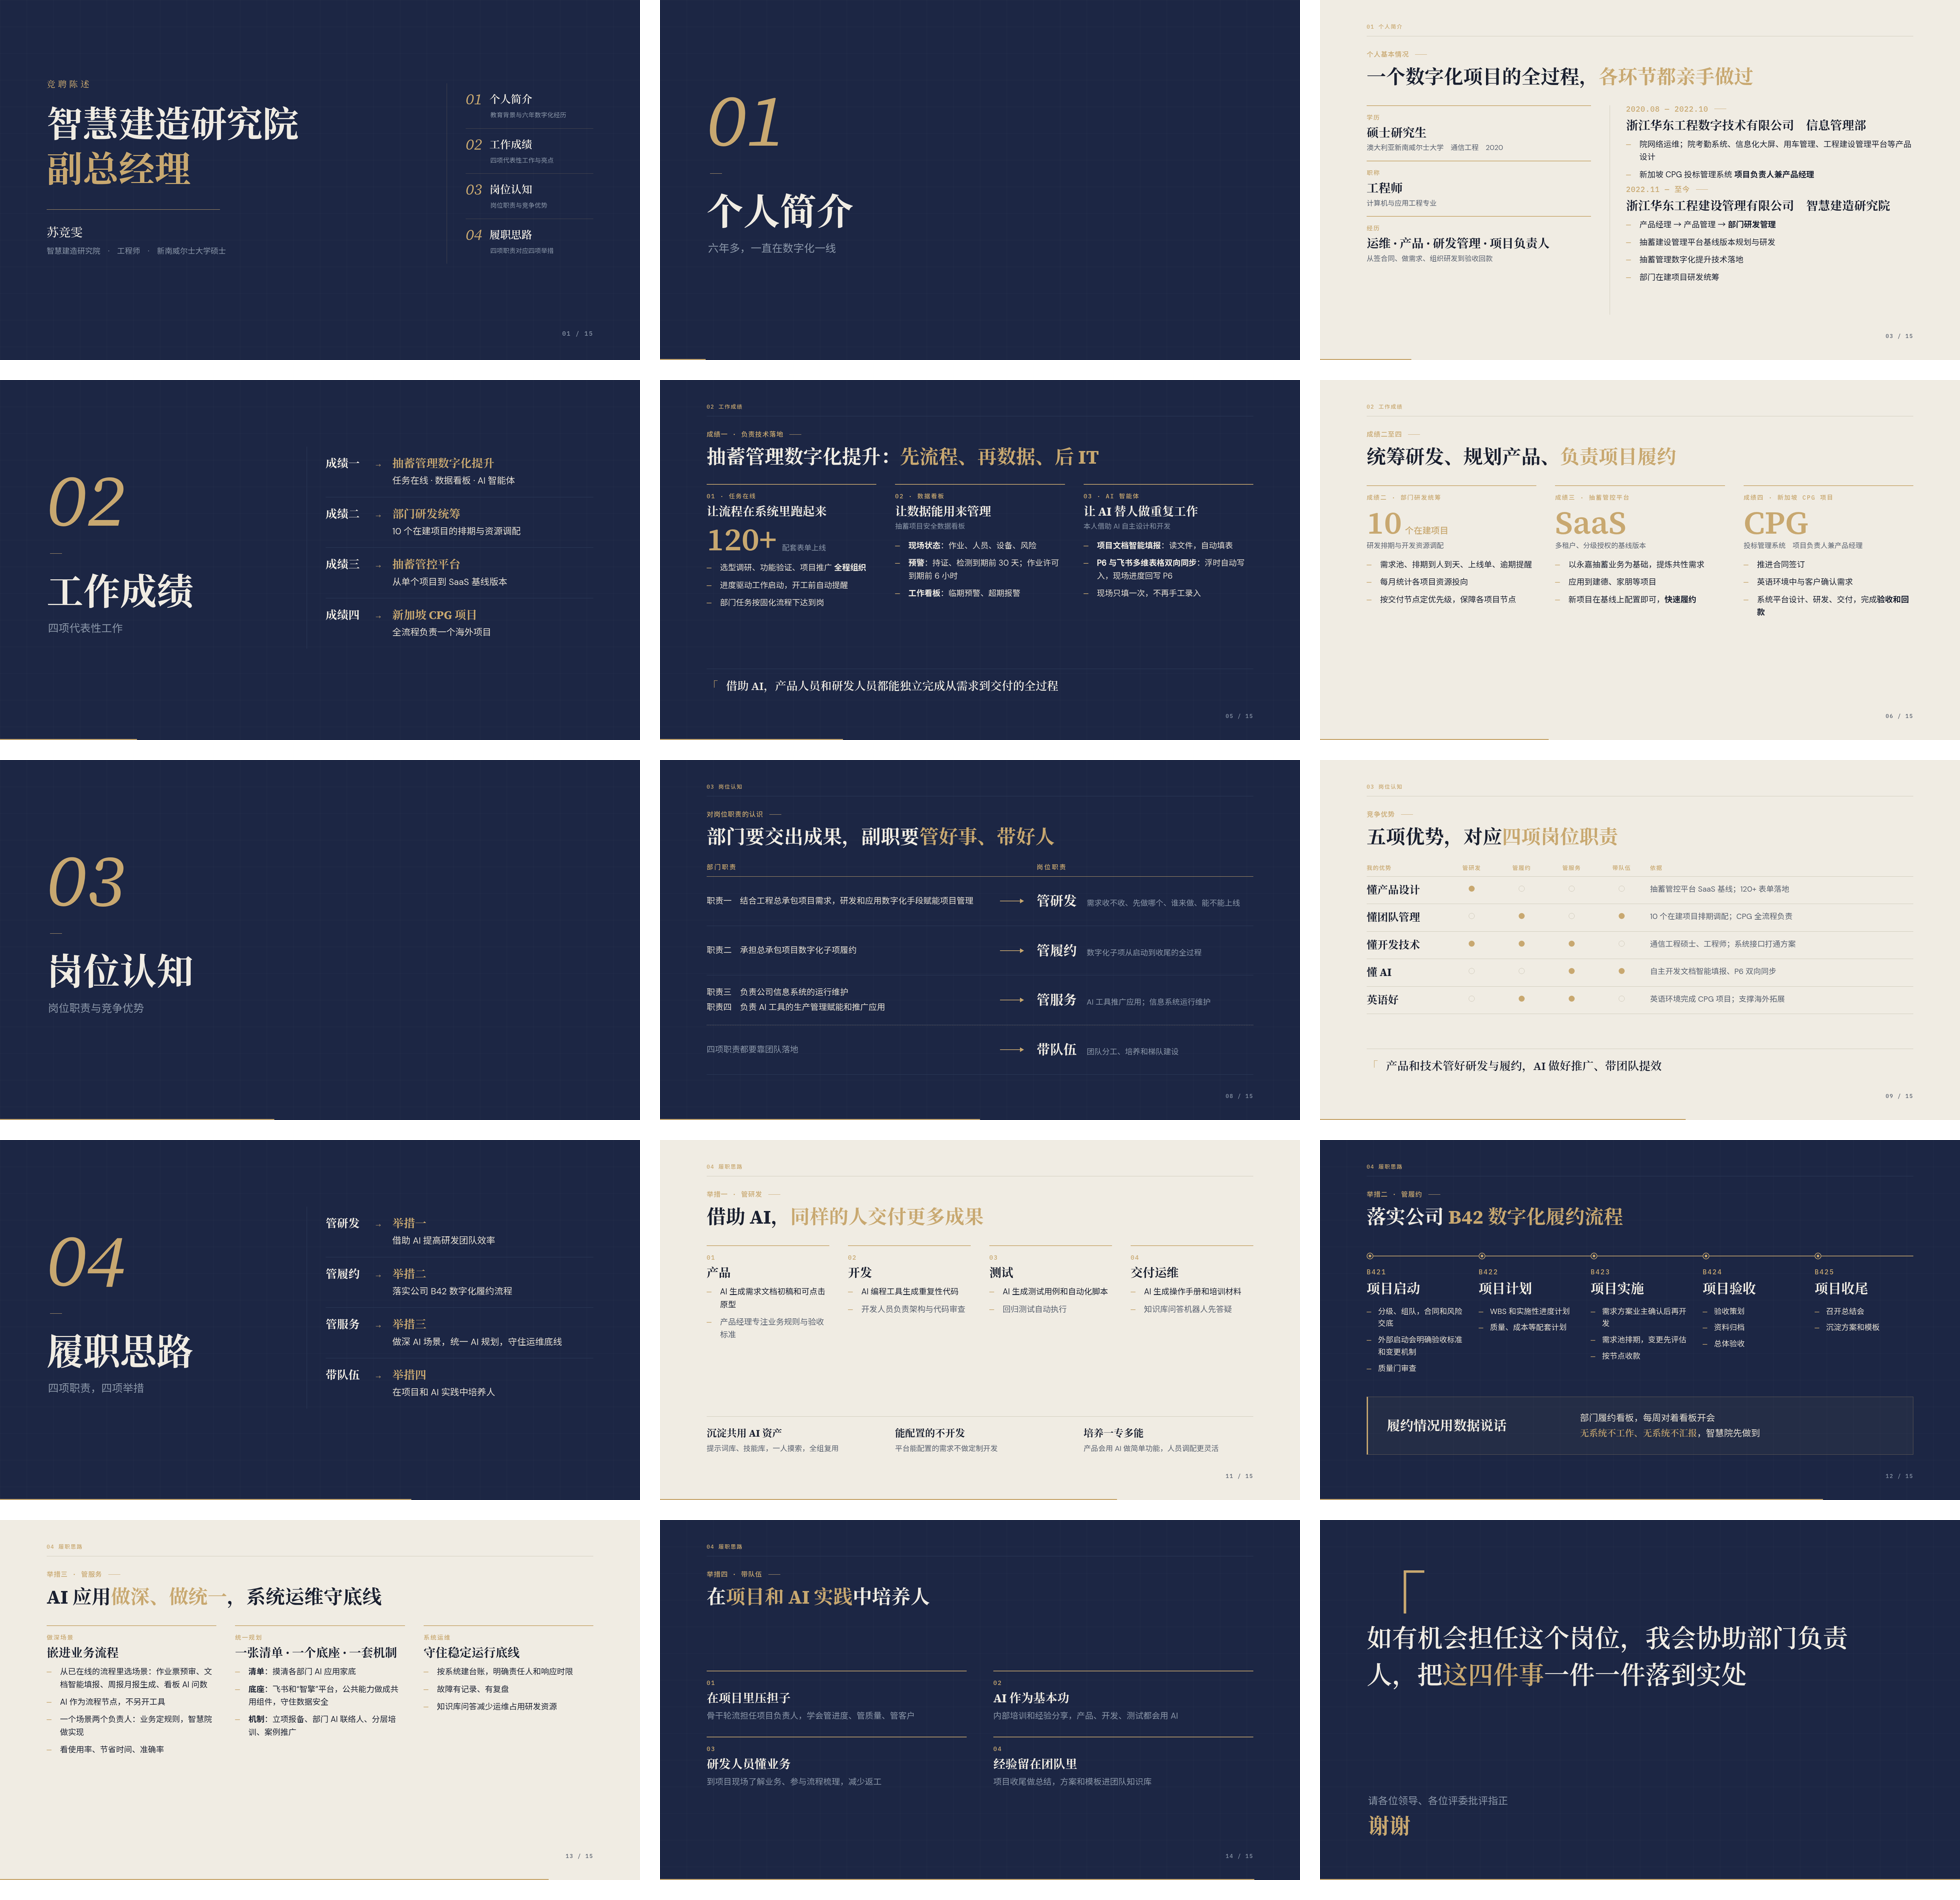
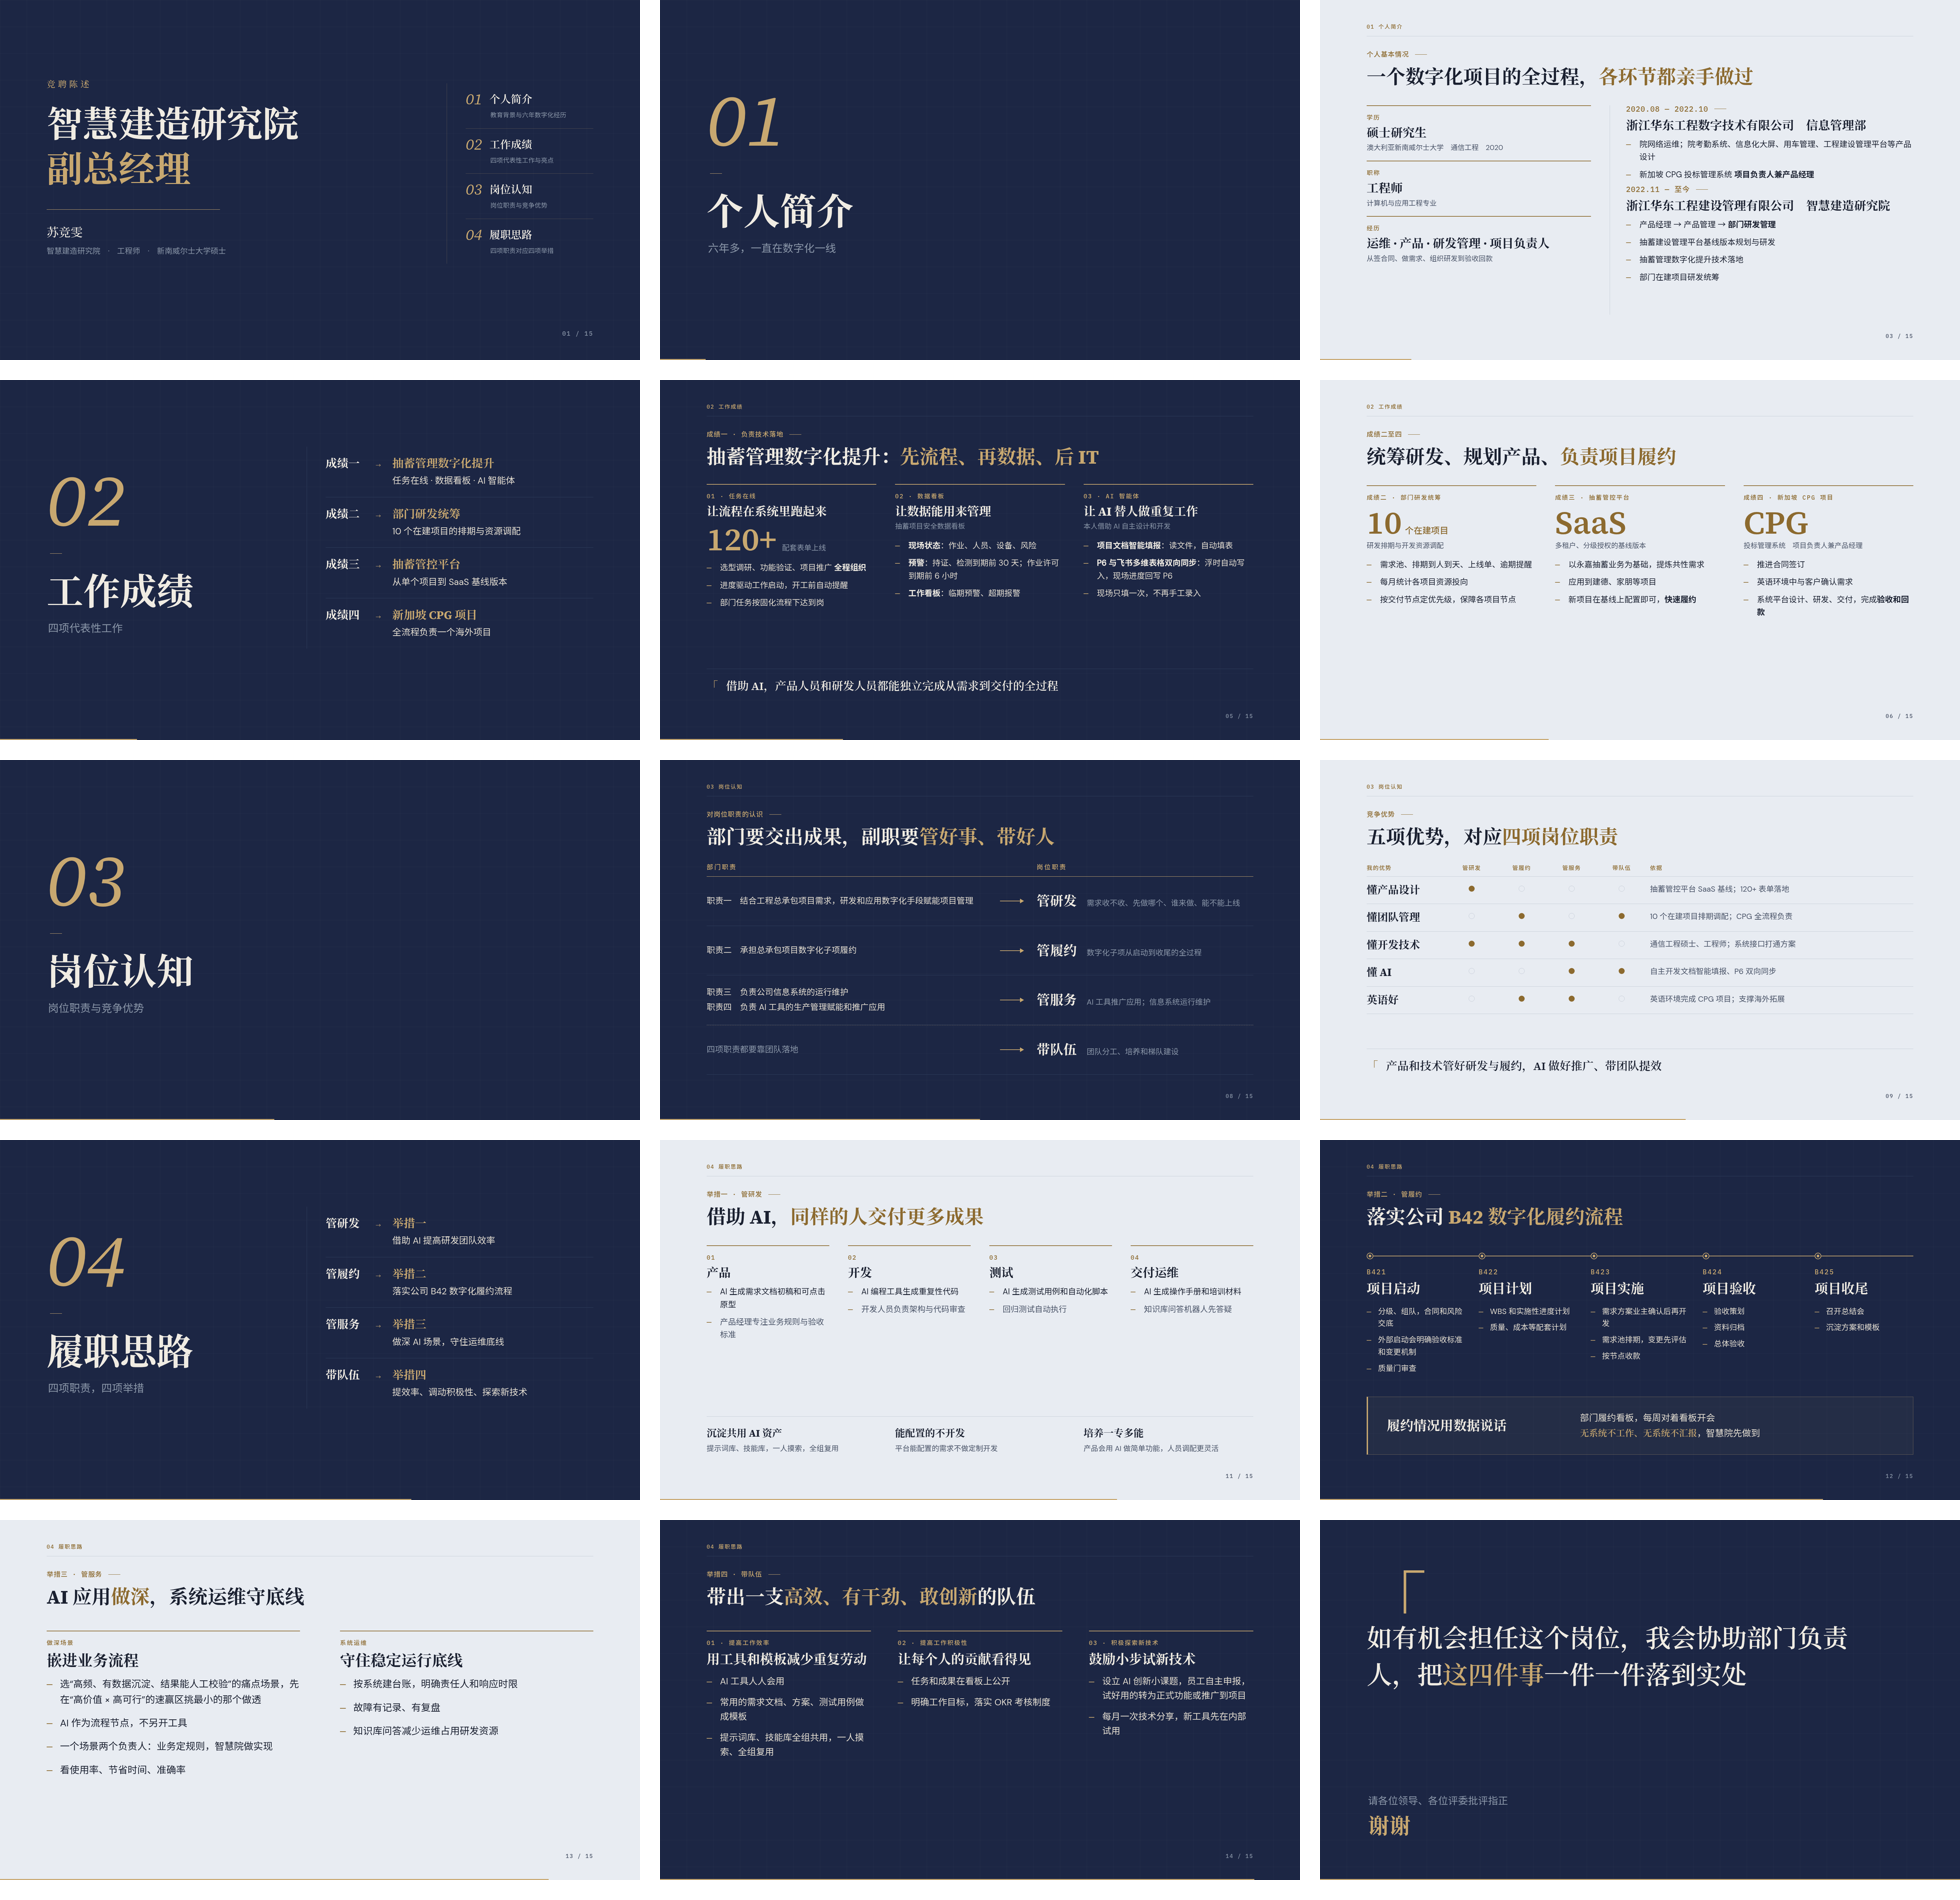
第14页改带队伍措施；浅色页改为浅灰蓝底

diff --git a/竞聘汇报_深蓝金线.html b/竞聘汇报_深蓝金线.html
@@ -161,7 +161,7 @@ svg {
 .slide{font-family:var(--sans);padding:72px 140px 64px;display:grid;grid-template-rows:auto 1fr auto}
 .slide.dark{background:var(--navy);color:var(--warm);
   background-image:linear-gradient(rgba(255,255,255,.028) 1px,transparent 1px),linear-gradient(90deg,rgba(255,255,255,.028) 1px,transparent 1px);background-size:80px 80px}
-.slide.light{background:var(--cream);color:var(--ink)}
+.slide.light{background:#E8ECF2;color:var(--ink);--gold:#8C6A2F;--bl:#C6CDD8;--muted-l:#4A5468}
 .slide.bare{display:block;padding:0}
 
 /* ---------- chrome：顶栏 / 底栏 ---------- */
@@ -286,6 +286,7 @@ body.editing [contenteditable]{outline:1px dashed rgba(200,168,112,.6)}
 .band{margin-top:auto;display:grid;grid-template-columns:520px 1fr;align-items:center;gap:60px;padding:40px 56px;border:1px solid rgba(200,168,112,.4);border-left:4px solid var(--gold);background:rgba(200,168,112,.05)}
 .band h3{font:700 40px/1.3 var(--serif);color:var(--cream)}
 .s13 ul.dash li{font-size:29px;margin-bottom:24px} .s13.cols .step h3{font-size:46px;margin-bottom:12px}
+.s14 ul.dash li{font-size:27px;margin-bottom:20px} .s14 .step h3{font-size:40px}
 .band p{font:400 27px/1.7 var(--sans);color:var(--warm)}
 </style></head><body>
 <div class="edit-hotzone"></div><button class="edit-toggle" id="editToggle">编辑文字 (E)</button>
@@ -373,7 +374,7 @@ body.editing [contenteditable]{outline:1px dashed rgba(200,168,112,.6)}
 <div class="foot"><span></span><span data-page></span></div></section>
 <section class="slide dark bare chapter">
 <div class="num r" style="--d:.05s">04</div><div class="rule"></div>
-<h1 class="r" style="--d:.35s">履职思路</h1><div class="sub r" style="--d:.5s">四项职责，四项举措</div><div class="map"><div class="r" style="--d:0.70s"><b>管研发</b><i>→</i><span><small>举措一</small>借助 AI 提高研发团队效率</span></div><div class="r" style="--d:0.82s"><b>管履约</b><i>→</i><span><small>举措二</small>落实公司 B42 数字化履约流程</span></div><div class="r" style="--d:0.94s"><b>管服务</b><i>→</i><span><small>举措三</small>做深 AI 场景，守住运维底线</span></div><div class="r" style="--d:1.06s"><b>带队伍</b><i>→</i><span><small>举措四</small>在项目和 AI 实践中培养人</span></div></div></section>
+<h1 class="r" style="--d:.35s">履职思路</h1><div class="sub r" style="--d:.5s">四项职责，四项举措</div><div class="map"><div class="r" style="--d:0.70s"><b>管研发</b><i>→</i><span><small>举措一</small>借助 AI 提高研发团队效率</span></div><div class="r" style="--d:0.82s"><b>管履约</b><i>→</i><span><small>举措二</small>落实公司 B42 数字化履约流程</span></div><div class="r" style="--d:0.94s"><b>管服务</b><i>→</i><span><small>举措三</small>做深 AI 场景，守住运维底线</span></div><div class="r" style="--d:1.06s"><b>带队伍</b><i>→</i><span><small>举措四</small>提效率、调动积极性、探索新技术</span></div></div></section>
 <section class="slide light">
 <div class="chrome"><span class="sec">04 履职思路</span></div>
 <div class="body">
@@ -406,8 +407,8 @@ body.editing [contenteditable]{outline:1px dashed rgba(200,168,112,.6)}
 <section class="slide dark">
 <div class="chrome"><span class="sec">04 履职思路</span></div>
 <div class="body">
-<div class="r" style="--d:0.10s"><div class="kicker">举措四 · 带队伍</div><h2>在<em>项目和 AI 实践</em>中培养人</h2></div>
-<div class="cols c2" style="row-gap:40px;column-gap:80px;align-content:center"><div class="r step" style="--d:0.30s"><div class="no">01</div><h3>在项目里压担子</h3><p style="font:400 25px/1.7 var(--sans);color:var(--muted-d);margin-top:8px">骨干轮流担任项目负责人，学会管进度、管质量、管客户</p></div><div class="r step" style="--d:0.42s"><div class="no">02</div><h3>AI 作为基本功</h3><p style="font:400 25px/1.7 var(--sans);color:var(--muted-d);margin-top:8px">内部培训和经验分享，产品、开发、测试都会用 AI</p></div><div class="r step" style="--d:0.54s"><div class="no">03</div><h3>研发人员懂业务</h3><p style="font:400 25px/1.7 var(--sans);color:var(--muted-d);margin-top:8px">到项目现场了解业务、参与流程梳理，减少返工</p></div><div class="r step" style="--d:0.66s"><div class="no">04</div><h3>经验留在团队里</h3><p style="font:400 25px/1.7 var(--sans);color:var(--muted-d);margin-top:8px">项目收尾做总结，方案和模板进团队知识库</p></div></div></div>
+<div class="r" style="--d:0.10s"><div class="kicker">举措四 · 带队伍</div><h2>带出一支<em>高效、有干劲、敢创新</em>的队伍</h2></div>
+<div class="cols c3 s14" style="column-gap:80px;margin-top:64px"><div class="r step" style="--d:0.30s"><div class="no">01 · 提高工作效率</div><h3>用工具和模板减少重复劳动</h3><ul class="dash" style="margin-top:18px"><li>AI 工具人人会用</li><li>常用的需求文档、方案、测试用例做成模板</li><li>提示词库、技能库全组共用，一人摸索、全组复用</li></ul></div><div class="r step" style="--d:0.45s"><div class="no">02 · 提高工作积极性</div><h3>让每个人的贡献看得见</h3><ul class="dash" style="margin-top:18px"><li>任务和成果在看板上公开</li><li>明确工作目标，落实 OKR 考核制度</li></ul></div><div class="r step" style="--d:0.60s"><div class="no">03 · 积极探索新技术</div><h3>鼓励小步试新技术</h3><ul class="dash" style="margin-top:18px"><li>设立 AI 创新小课题，员工自主申报，试好用的转为正式功能或推广到项目</li><li>每月一次技术分享，新工具先在内部试用</li></ul></div></div></div>
 <div class="foot"><span></span><span data-page></span></div></section>
 <section class="slide dark bare end">
 <div class="qm r">「</div>
